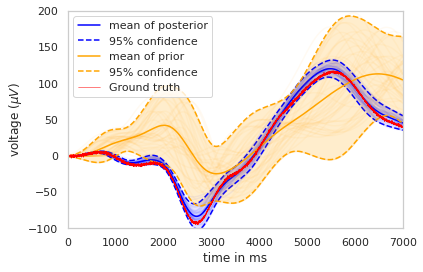
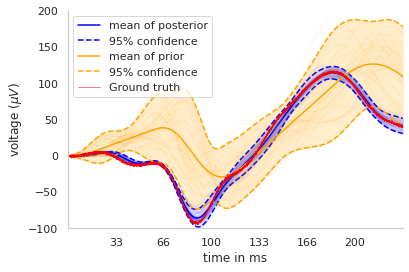
other approach to prevent overdispersion

diff --git a/code/utils/sbi_modulated_functions.py b/code/utils/sbi_modulated_functions.py
@@ -294,6 +294,122 @@ class Combined2(Distribution):
         return torch.var(self.sample((1000,)),dim = 0)
 
 
+class Combine_List(Distribution):
+    """
+    Inherits from Torch Distribution class
+    implements own log_prob() and sample() for two different prior distributions such that parameter sets can be inferred sequentially - one posterior is based on another
+   
+    takes as arguments:
+    - posterior distribution of already inferred parameter set
+    - prior distribution of subsequent parameter set that is dependent on earlier parameter set
+    - number_params_1: number of parameters that was inferred already (in posterior distribution)
+    """
+
+    has_rsample = False
+    support = constraints.real
+
+    def __init__(
+        self,
+        posterior_list,
+        range_list,
+        validate_args={},
+        batch_shape=torch.Size(),
+        event_shape=torch.Size(),
+    ):
+        self._batch_shape = batch_shape
+        self._event_shape = event_shape
+
+        self.posterior_list = posterior_list
+
+        self.steps = range_list
+
+        super(Combined, self).__init__(batch_shape, validate_args=validate_args)
+
+
+
+    def log_prob(self, x):
+
+        """
+        calculates the log probability of the combined prior distribution based on some observation x
+        """
+
+        steps = self.steps
+
+        log_prob_posterior = 0
+        
+        for i, posterior in enumerate(self.posterior_list):
+
+
+            globals()['log_prob_posterior%s' % i] = posterior.log_prob(x[0][steps[i]:steps[i+1]])
+
+            log_prob_posterior += globals()['log_prob_posterior%s' % i]
+
+
+        return log_prob_posterior
+
+
+    def sample(self, sample_shape=torch.Size(), x: Optional[Tensor] = None, show_progress_bars: bool = True, sample_with: Optional[str] = None):
+
+        """
+        samples from combined prior distribution
+
+        show_progress_bars and sample_with not used. only needed to conduct sbc
+        """
+
+
+
+        with torch.no_grad():
+
+            theta_posterior_list = []
+            
+            for idx, posterior in enumerate(self.posterior_list):
+
+                if x == None:
+                    theta_posterior = posterior.sample(sample_shape)
+
+                else:
+                    ## in earlier rounds not all of the summary statistics are used such
+                    ## that we need this indix:
+                    x_shape = self._x_shape_list[idx]
+
+                    theta_posterior = posterior.sample(sample_shape, x = x[:,:x_shape[1]])
+
+
+                #make sure that thetas are in the right shape; otherwise unsqueeze:
+                if theta_posterior.dim()  == 1:
+                    theta_posterior = torch.unsqueeze(theta_posterior, 0) 
+
+                theta_posterior_list.append(theta_posterior)  
+
+
+
+            ## concatenates the thetas from the different posteriors together
+            theta_posterior = torch.cat(tuple(theta_posterior_list), dim = 1)
+            
+        
+            return theta_posterior
+
+    @property
+    def mean(self):
+        """
+        Returns the mean of the distribution.
+        """
+        return torch.mean(self.sample((1000,)),dim = 0)
+
+    @property
+    def variance(self):
+        """
+        Returns the mean of the distribution.
+        """
+        return torch.var(self.sample((1000,)),dim = 0)
+
+
+
+
+
+
+
+
 
 
 

diff --git a/code/toy_example_gaussians.py b/code/toy_example_gaussians.py
@@ -20,7 +20,7 @@ import datetime
 
 from utils.helpers import get_time
 
-from utils.sbi_modulated_functions import Combined
+from utils.sbi_modulated_functions import Combined, Combine_List
 
 # visualization
 import matplotlib as mpl
@@ -234,6 +234,8 @@ def main(argv):
 
             start_num = 1
 
+            posterior_list = []
+
             for index in range(len(range_list)-1):
 
                 # i defines number of parameters to be inferred, j indicates how many parameters
@@ -272,6 +274,8 @@ def main(argv):
 
                 proposal1 = posterior.set_default_x(obs_real[0:i])
 
+                posterior_list.append(proposal1)
+
                 next_prior = utils.torchutils.BoxUniform(
                     low=prior_min[i:j], high=prior_max[i:j])
 
@@ -285,11 +289,6 @@ def main(argv):
                 # set combined prior to be the new prior_i:
                 proposal = combined_prior
 
-                #finish_time = datetime.datetime.now()
-
-                #diff = finish_time - start_time
-
-                #print('took ', diff, ' for this step')
 
             if ratio:
 
@@ -311,9 +310,15 @@ def main(argv):
             inf = inf.append_simulations(theta, x)
             neural_dens = inf.train()
 
-            posterior_incremental = inf.build_posterior(neural_dens)
+            last_posterior = inf.build_posterior(neural_dens)
 
-            posterior_incremental = posterior_incremental.set_default_x(obs_real)
+            last_posterior = last_posterior.set_default_x(obs_real)
+
+            posterior_list.append(last_posterior)
+
+            ## combine the posterior from the different steps now:
+
+            posterior_incremental = Combine_List(posterior_list, steps = [0, 5, 10, 15])
 
             posterior_incremental_list.append(posterior_incremental)
 
